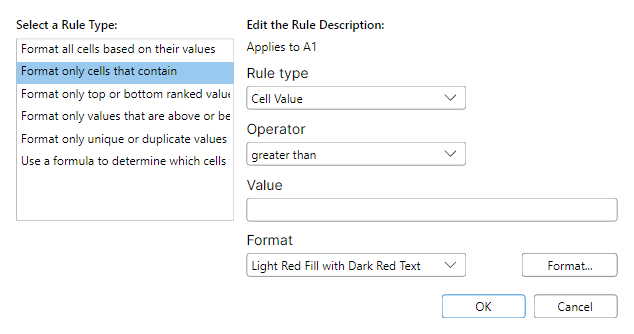
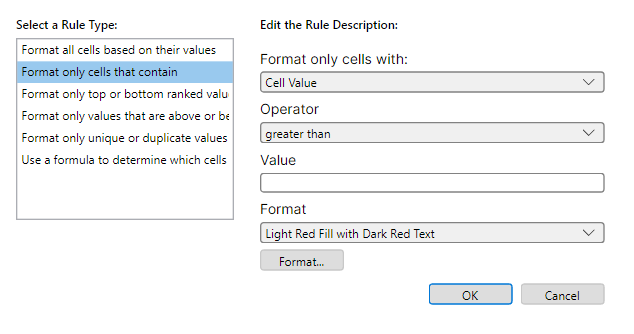
Align Avalonia conditional format rule dialog

diff --git a/src/FreeX.App.Avalonia/MainWindow.ConditionalFormat.cs b/src/FreeX.App.Avalonia/MainWindow.ConditionalFormat.cs
@@ -389,7 +389,7 @@ public sealed partial class MainWindow
         // For an edited rule, seed from its existing FormatIfTrue so the format round-trips.
         CellStyle? customFormatStyle = existingRule?.FormatIfTrue?.Clone();
         var formatButton = new Button { Content = StripDisplayMnemonic(UiText.Get("ConditionalFormatDialog_FormatButton")) };
-        ApplyCfButtonChrome(formatButton, 96);
+        ApplyCfButtonChrome(formatButton, 84);
         AutomationProperties.SetAutomationId(formatButton, "ConditionalFormatFormatButton");
         formatButton.Click += async (_, _) =>
         {
@@ -417,13 +417,40 @@ public sealed partial class MainWindow
         var minColorField = CreateDataValidationField(UiText.Get("ConditionalFormat_MinColorLabel"), minColorBox);
         var midColorField = CreateDataValidationField(UiText.Get("ConditionalFormat_MidColorLabel"), midColorBox);
         var maxColorField = CreateDataValidationField(UiText.Get("ConditionalFormat_MaxColorLabel"), maxColorBox);
-        var highlightRow = new DockPanel { LastChildFill = true };
-        DockPanel.SetDock(formatButton, Dock.Right);
-        formatButton.Margin = new Thickness(8, 0, 0, 0);
-        highlightRow.Children.Add(formatButton);
-        highlightRow.Children.Add(highlightBox);
+        var highlightRow = new StackPanel
+        {
+            Spacing = 6,
+            Children = { highlightBox, formatButton },
+        };
         var highlightField = CreateDataValidationField(UiText.Get("ConditionalFormat_FormatLabel"), highlightRow);
         var presetField = CreateDataValidationField(UiText.Get("ConditionalFormat_PresetLabel"), presetBox);
+
+        // The WPF editor gives its rule description controls the full right-column width. Keep the
+        // same control instances and automation ids while letting the compact Avalonia column stretch.
+        foreach (var control in new Control[]
+                 {
+                     ruleTypeBox, presetBox, operatorBox, value1Box, value2Box, formulaBox, textBox,
+                     rankBox, topBottomBox, iconSetBox, minColorBox, midColorBox, maxColorBox, highlightBox,
+                 })
+        {
+            control.HorizontalAlignment = AvaloniaHorizontalAlignment.Stretch;
+            switch (control)
+            {
+                case ComboBox combo:
+                    combo.Height = 21;
+                    combo.MinHeight = 21;
+                    combo.MaxHeight = 21;
+                    break;
+                case TextBox text:
+                    text.Height = 20;
+                    text.MinHeight = 20;
+                    text.MaxHeight = 20;
+                    break;
+            }
+        }
+        formatButton.Height = 21;
+        formatButton.MinHeight = 21;
+        formatButton.MaxHeight = 21;
 
         var errorText = new TextBlock
         {
@@ -624,9 +651,15 @@ public sealed partial class MainWindow
 
         var okButton = new Button { Content = UiText.Get("Common_Ok"), IsDefault = true, MinWidth = 84 };
         ApplyCfButtonChrome(okButton, 84, isDefault: true);
+        okButton.Height = 21;
+        okButton.MinHeight = 21;
+        okButton.MaxHeight = 21;
         AutomationProperties.SetAutomationId(okButton, "ConditionalFormatOkButton");
         var cancelButton = new Button { Content = UiText.Get("Common_Cancel"), IsCancel = true, MinWidth = 84 };
         ApplyCfButtonChrome(cancelButton, 84);
+        cancelButton.Height = 21;
+        cancelButton.MinHeight = 21;
+        cancelButton.MaxHeight = 21;
         AutomationProperties.SetAutomationId(cancelButton, "ConditionalFormatCancelButton");
 
         okButton.Click += (_, _) =>
@@ -658,6 +691,8 @@ public sealed partial class MainWindow
         // Left column: "Select a Rule Type:" header + the Excel rule-type list.
         var leftColumn = new StackPanel
         {
+            Width = 218,
+            HorizontalAlignment = AvaloniaHorizontalAlignment.Left,
             Margin = new Thickness(0, 0, 12, 0),
             Children =
             {
@@ -679,18 +714,11 @@ public sealed partial class MainWindow
         {
             Content = new StackPanel
             {
-                Spacing = 10,
+                Margin = new Thickness(0, 12, 0, 0),
+                Spacing = 8,
                 Children =
                 {
-                    new TextBlock
-                    {
-                        Text = UiText.Format("ConditionalFormat_AppliesToFormat", FormatRangeReference(range)),
-                        Foreground = HeaderForeground,
-                        TextWrapping = TextWrapping.Wrap,
-                        FontSize = 12,
-                        FontFamily = FormulaBarFontFamily,
-                    },
-                    CreateDataValidationField(UiText.Get("ConditionalFormat_RuleTypeLabel"), ruleTypeBox),
+                    CreateDataValidationField(UiText.Get("ConditionalFormatDialog_FormatOnlyCellsWithLabel"), ruleTypeBox),
                     presetField,
                     operatorField,
                     value1Field,
@@ -732,8 +760,8 @@ public sealed partial class MainWindow
 
         var root = new AvaloniaGrid
         {
-            Margin = new Thickness(16),
-            ColumnDefinitions = new ColumnDefinitions("230,*"),
+            Margin = new Thickness(16, 16, 29, 29),
+            ColumnDefinitions = new ColumnDefinitions("244,*"),
             Children =
             {
                 leftColumn,

diff --git a/tests/FreeX.App.Avalonia.Tests/DialogVisualParitySourceTests.cs b/tests/FreeX.App.Avalonia.Tests/DialogVisualParitySourceTests.cs
@@ -70,6 +70,30 @@ public sealed class DialogVisualParitySourceTests
     }
 
     [Fact]
+    public void ConditionalFormatNewRule_UsesCurrentWpfDescriptionChrome_WithoutChangingRuleBehavior()
+    {
+        var source = File.ReadAllText(RepoFile("src", "FreeX.App.Avalonia", "MainWindow.ConditionalFormat.cs"));
+
+        source.Should().Contain("ConditionalFormatDialog_FormatOnlyCellsWithLabel");
+        source.Should().NotContain("ConditionalFormat_AppliesToFormat");
+        source.Should().Contain("ApplyCfButtonChrome(formatButton, 84);");
+        source.Should().Contain("Children = { highlightBox, formatButton },");
+        source.Should().Contain("control.HorizontalAlignment = AvaloniaHorizontalAlignment.Stretch;");
+        source.Should().Contain("Width = 218,");
+        source.Should().Contain("Margin = new Thickness(16, 16, 29, 29),");
+        source.Should().Contain("ColumnDefinitions = new ColumnDefinitions(\"244,*\"),");
+        source.Should().Contain("Margin = new Thickness(0, 12, 0, 0),");
+        source.Should().Contain("Spacing = 8,");
+        source.Should().Contain("formatButton.Height = 21;");
+        source.Should().Contain("okButton.Height = 21;");
+        source.Should().Contain("cancelButton.Height = 21;");
+        source.Should().Contain("AutomationProperties.SetAutomationId(formatButton, \"ConditionalFormatFormatButton\")");
+        source.Should().Contain("ConditionalFormatRuleSchema.ForRuleType(ruleType)");
+        source.Should().Contain("ConditionalFormatRuleBuilder.TryBuildApplyCommand(");
+        source.Should().Contain("ConfigureDialogTabCycle(dialog, root);");
+    }
+
+    [Fact]
     public void SortOptionsDialog_UsesSharedLocalizationAndReferenceCaptureState()
     {
         var source = File.ReadAllText(RepoFile("src", "FreeX.App.Avalonia", "MainWindow.cs"));
